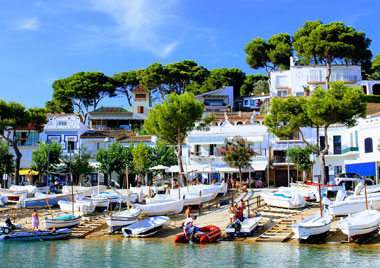
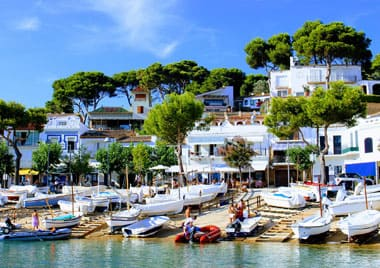
Compress images, add responsive for slide-show section

diff --git a/app/scss/components/assets/_slide-show.scss b/app/scss/components/assets/_slide-show.scss
@@ -1,46 +1,96 @@
+.slide-show {
+  @include media(min, 1400) {
+    max-width: 1365px;
+    margin: 0 auto;
+  }
+}
+
 .tour-desc-img {
-  margin: 0 0 0 60px;
+  display: none;
+
+  @include media(min, 768) {
+    display: block;
+    width: 750px;
+    margin: 0 auto;
+  }
+
+  @include media(min, 1024) {
+    margin: 0 0 0 60px;
+  }
+
+  @include media(min, 1224) {
+    width: auto;
+  }
+
+  @include media(min, 1400) {
+    margin: 0;
+  }
 }
 
 .tour-desc {
-  position: absolute;
-  top: 230px;
-  right: 180px;
+  margin: 0 auto;
+  padding: 0 20px;
   background: #fff;
-  max-width: 600px;
-  padding: 45px;
-  border-radius: 10px;
-  box-shadow: 0 0 5px #969696;
+
+  @include media(min, 500) {
+    max-width: 600px;
+    width: 100%;
+  }
+
+  @include media(min, 768) {
+    @include centering(xy);
+    padding: 45px;
+    border-radius: 10px;
+    box-shadow: 0 0 5px #969696;
+    background: rgba(255, 255, 255, .85);
+  }
+
+  @include media(min, 1024) {
+    transform: translateY(-50%);
+    right: 60px;
+    left: auto;
+  }
+
+  @include media(min, 1400) {
+    right: 0;
+    background: #fff;
+  }
 }
 
 .tour-desc-title {
-  @include font-size(38);
-  font-weight: $black;
-  text-transform: capitalize;
   margin: 0 0 15px;
 }
 
 .tour-desc-period {
   @include font-size(24);
   text-transform: capitalize;
+  text-align: center;
+}
+
+.tour-desc-title,
+.tour-desc-period {
+  @include media(min, 1024) {
+    text-align: left;
+  }
 }
 
 .status-list {
   @include font-size(20);
-  display: flex;
+  @include centering(x);
+  display: inline-block;
+  position: relative;
   margin: 35px 0 40px;
 
   li {
     @include font-size(20);
     text-transform: capitalize;
     display: flex;
-    flex-direction: column;
-    justify-content: space-between;
     align-items: center;
-    margin: 0 65px 0 0;
+    margin-bottom: 20px;
 
     &:before {
       @include pseudo('', block, relative);
+      min-width: 60px;
     }
 
     &:last-child {
@@ -67,17 +117,52 @@
   .cab-blue:before {
     content: '\f1b9';
   }
+
+  @include media(min, 500) {
+    display: flex;
+    justify-content: space-between;
+
+    li {
+      display: block;
+      width: 30%;
+      margin-bottom: 0;
+      text-align: center;
+
+      &:before {
+        height: 40px;
+        margin-bottom: 15px;
+      }
+    }
+  }
+
+  @include media(min, 1024) {
+    li {
+      text-align: left;
+    }
+  }
 }
 
 .tour-book-section {
-  display: flex;
-  justify-content: space-between;
-  align-items: center;
-  max-width: 390px;
   margin: 30px 0 0;
+  text-align: center;
+
+  @include media(min, 500) {
+    display: flex;
+    justify-content: center;
+    align-items: center;
+  }
+
+  @include media(min, 1024) {
+    justify-content: flex-start;
+  }
 }
 
 .tour-book-price {
   @include font-size(50);
   font-weight: $black;
+  margin: 0 0 30px;
+
+  @include media(min, 500) {
+    margin: 0 85px 0 0;
+  }
 }

diff --git a/app/scss/components/assets/_footer.scss b/app/scss/components/assets/_footer.scss
@@ -2,7 +2,7 @@
   background: url("/img/contact-us-bg-XL.png") no-repeat center;
   background-size: cover;
   position: relative;
-  padding-top: 60px;
+  padding: 60px 20px 0;
   min-height: 270px;
   color: #fff;
 
@@ -52,11 +52,10 @@
 }
 
 .main-contacts {
+  @include centering(x);
   display: inline-block;
   margin: 0 auto 60px;
-  transform: translateX(-50%);
   position: relative;
-  left: 50%;
 
   li {
     margin-bottom: 25px;
@@ -148,7 +147,7 @@
 
   @include media(min, 1224) {
     &:before {
-      left: 0;
+      left: 19px;
     }
   }
 }
@@ -157,6 +156,12 @@
   &:before {
     content: "\f278";
     top: 5px;
+  }
+
+  @include media(min, 1224) {
+    &:before {
+      left: -8px;
+    }
   }
 }
 

diff --git a/app/script/main.js b/app/script/main.js
@@ -8,20 +8,10 @@
     $('.slider-wrap').slick(
       {
         autoplay: true,
-        // autoplay: false,
         dots: true,
         arrows: false,
         speed: 500,
-        autoplaySpeed: 4000,
-        responsive: [
-          {
-            breakpoint: 971,
-            settings: {
-              slidesToShow: 1,
-              slidesToScroll: 1
-            }
-          }
-        ]
+        autoplaySpeed: 4000
       }
     );
   });
